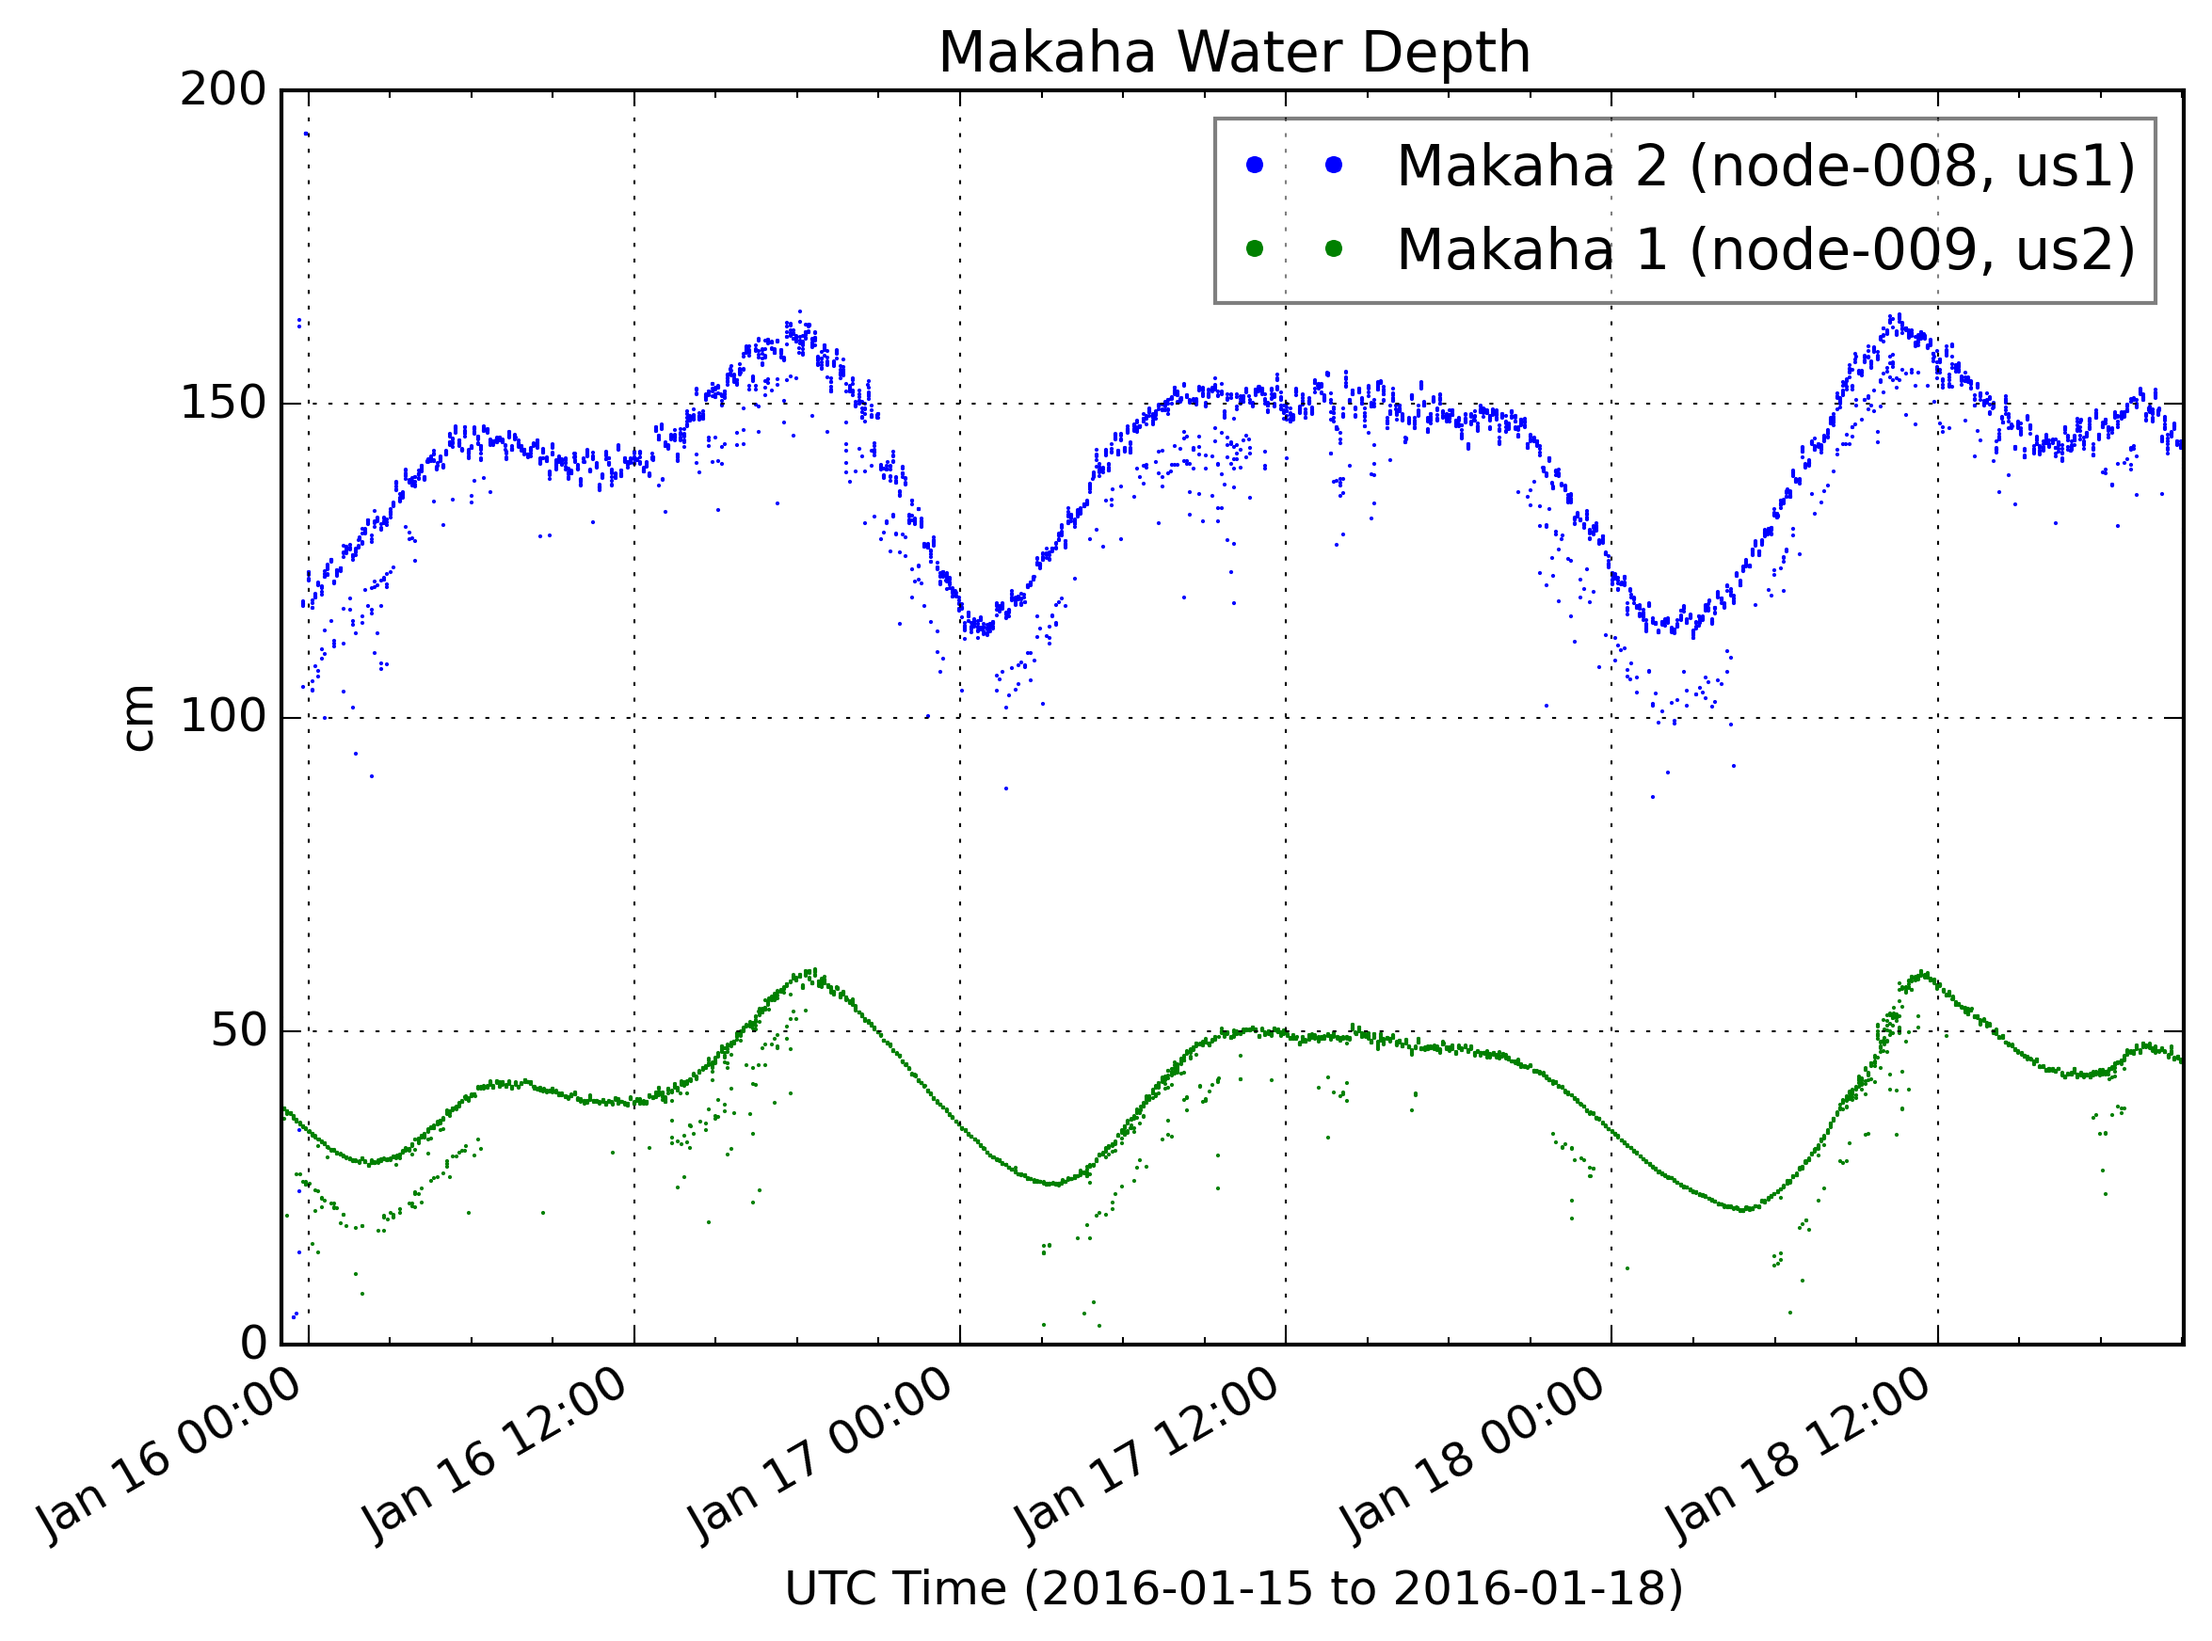
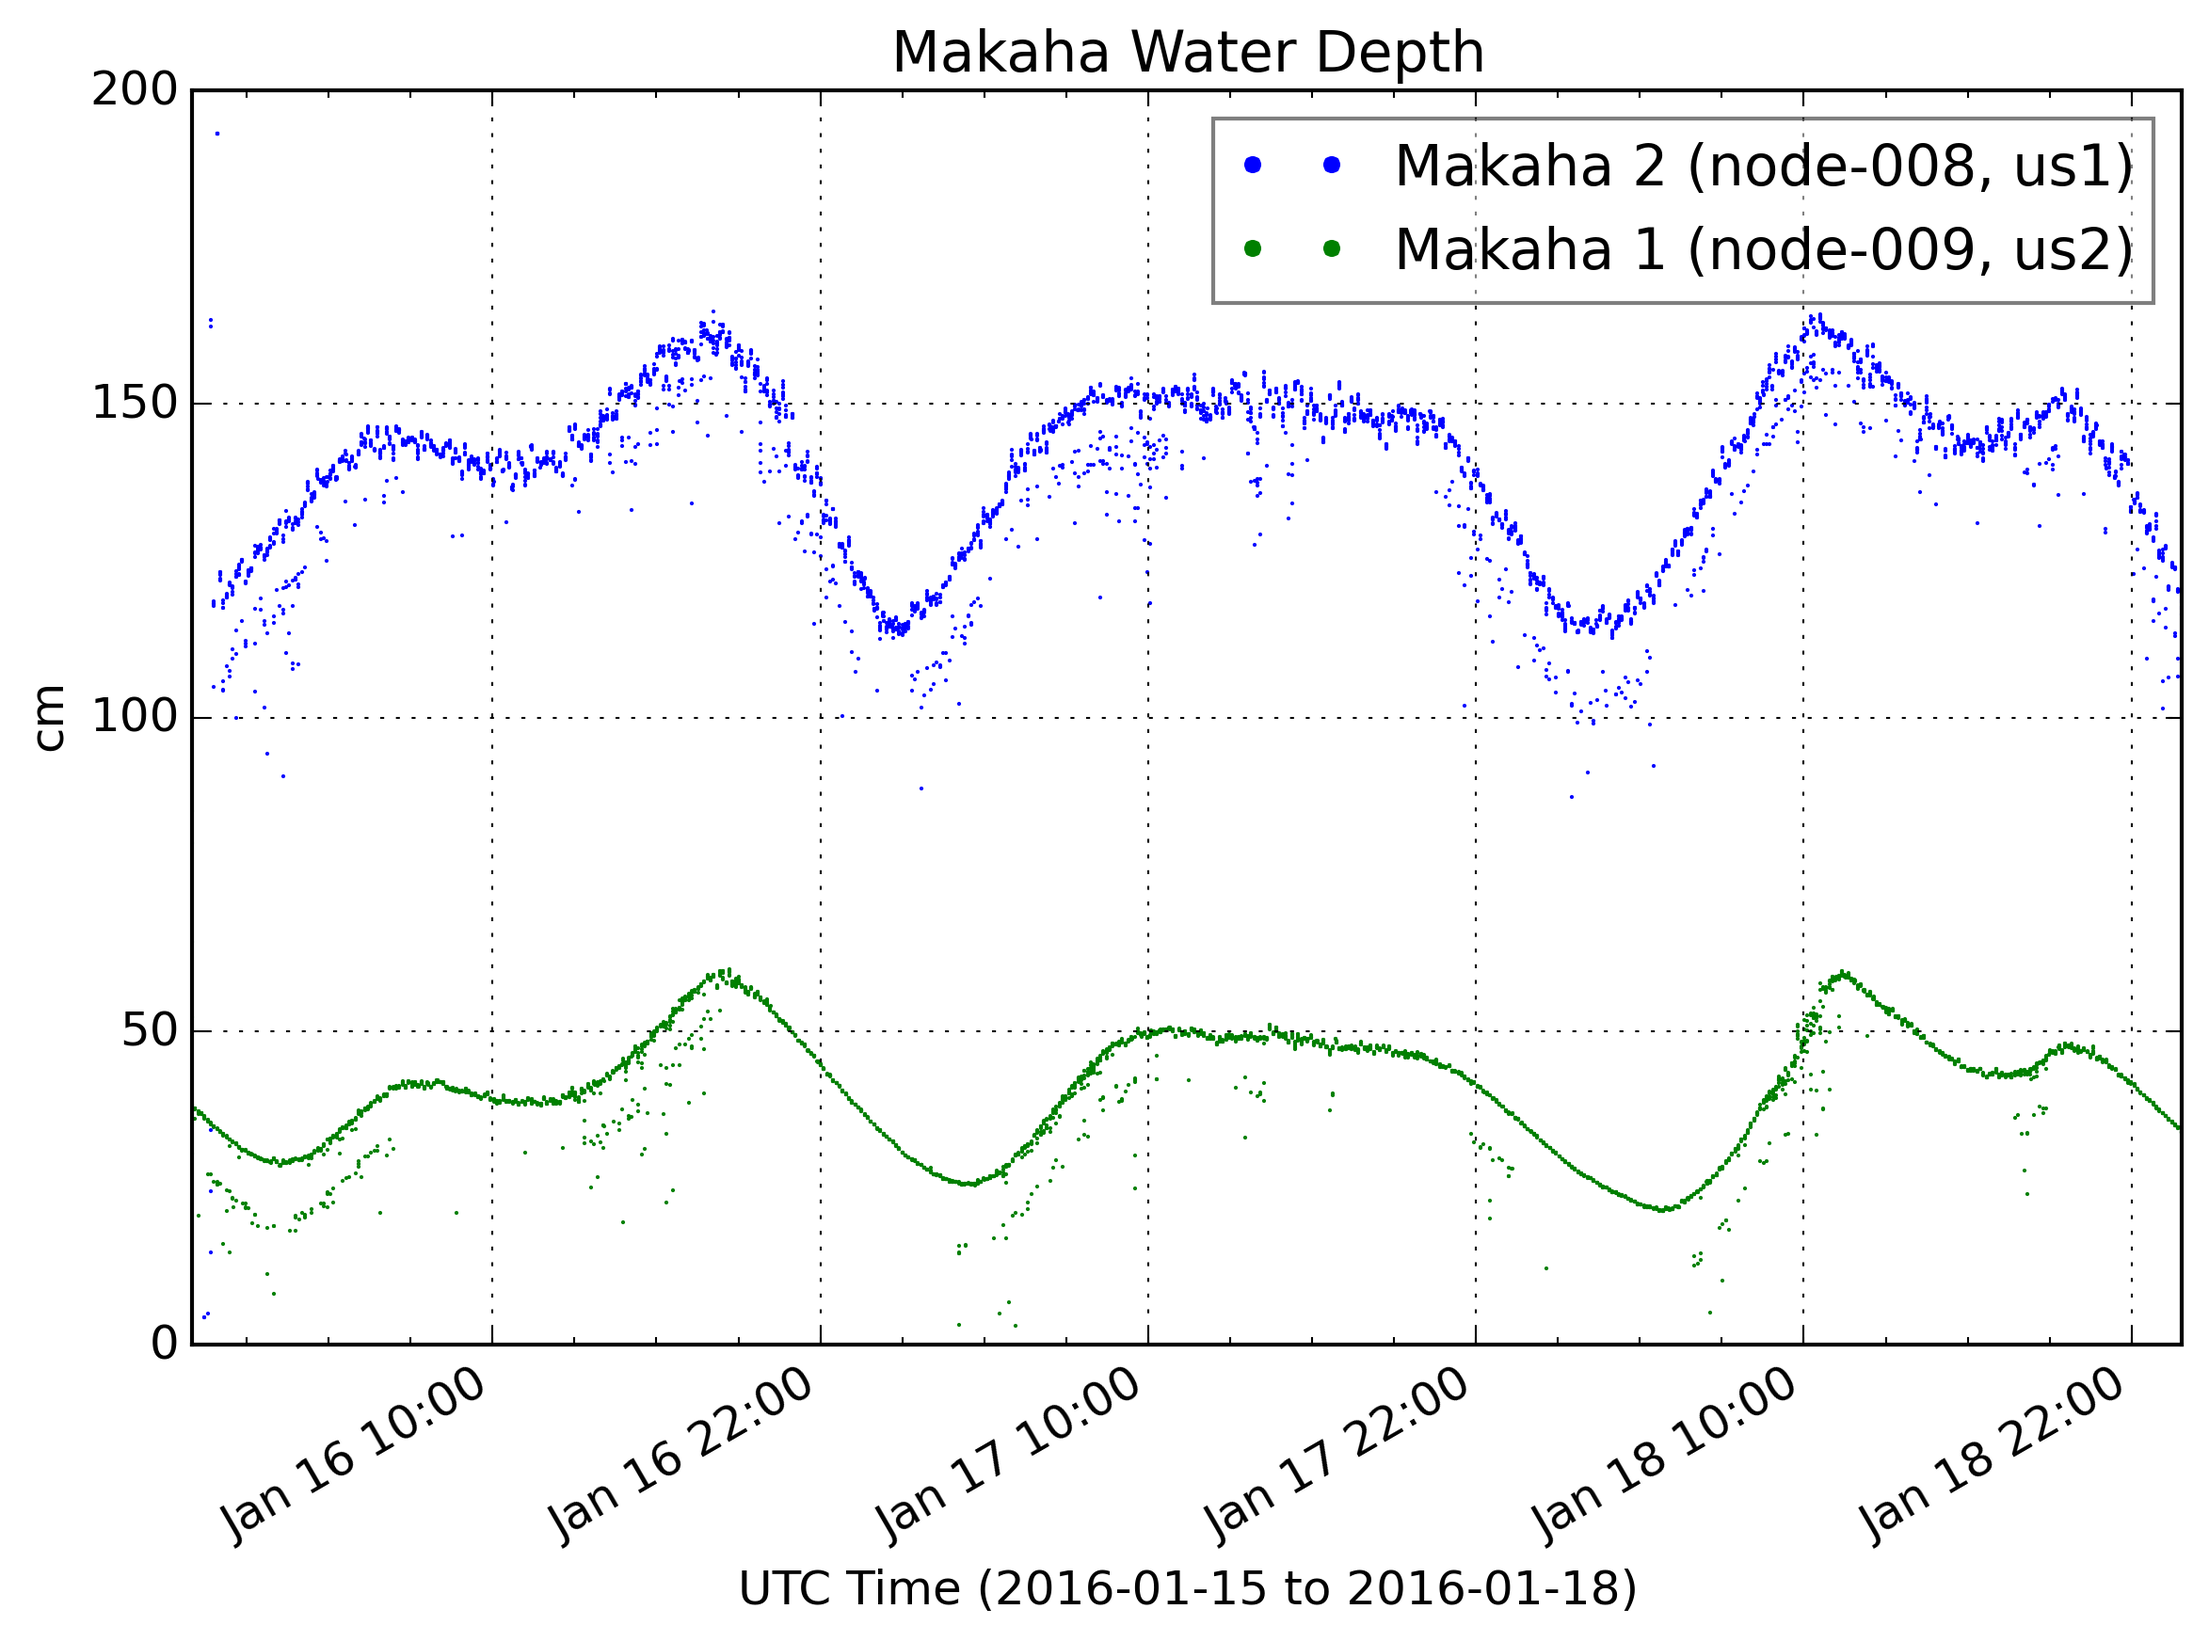
.

diff --git a/www/experimental3/create_plot.js b/www/experimental3/create_plot.js
@@ -4,7 +4,7 @@
 	var variable = $("#data-id").data("variable");;
 	// TODO
 	var end = Date.now()/1000.0;
-	var begin = end - 1*24*60*60;
+	var begin = end - 7*24*60*60;
 	
 	// query for sensor data
 	$.get("../qtr.py?site=" + site + "&node_id=" + node_id + "&var=" + variable + "&begin=" + begin + "&end=" + end,function(data) {

diff --git a/display/gen_plot.py b/display/gen_plot.py
@@ -5,15 +5,12 @@
 
 import matplotlib,numpy,traceback
 matplotlib.use('Agg')
-import sys,re,json,time
+import sys
 sys.path.append('..')
-from helper import get_dbfile,dt2ts
 import matplotlib.pyplot as plt
 from datetime import datetime,timedelta
 from matplotlib.dates import DateFormatter,HourLocator
 from config.config_support import *
-from os.path import exists,join
-from os import makedirs
 
 
 def PRINT(s):
@@ -138,6 +135,7 @@ def plot_multi_time_series(data,plotfilename,title='',xlabel='',ylabel=''):
             h.set_markersize(8)
     except:
         traceback.print_exc()
+        #pass
     
     plt.savefig(plotfilename,bbox_inches='tight',dpi=300)
     plt.cla()
@@ -152,124 +150,3 @@ def plot_time_series(x,y,plotfilename,title='',xlabel='',ylabel='',linelabel=Non
                            xlabel=xlabel,
                            ylabel=ylabel)
 
-
-if '__main__' == __name__:
-    import sys,traceback,sqlite3,re,importlib,argparse
-    sys.path.append('..')
-    from storage.storage import storage_read_only,auto_time_col
-    #from scipy.signal import medfilt
-
-    parser = argparse.ArgumentParser(formatter_class=argparse.RawTextHelpFormatter,description='')
-    parser.add_argument('--dbfile',type=str,default=None,metavar='dbfile',help='Path to the database file')
-    parser.add_argument('--site',type=str,default='poh',metavar='site',help='Name of the site. {poh,msb228,coconut}')
-    parser.add_argument('--plot_dir',type=str,default='./gen_plot_output',metavar='plot_dir',help='Output directory for the plots')
-    args = parser.parse_args()
-
-    site = args.site
-    PRINT('Site: {}'.format(site))
-
-    dbfile = args.dbfile
-    if dbfile is not None:
-        PRINT('db: {}'.format(dbfile))
-
-    # which database to take data from
-    #dbfile = args.dbfile
-    #if not exists(dbfile):
-    #    print('dbfile {} not found. Terminating.'.format(dbfile))
-    #    sys.exit()
-    #else:
-    #    PRINT('Plotting data from {}'.format(dbfile))
-
-    # where to put the generated plots
-    plot_dir = args.plot_dir
-    PRINT('Output directory: ' + plot_dir)
-
-    #tmp = store.get_list_of_tables()
-    #nodes = [t.replace('_','-') for t in tmp if re.match('^node.+',t)]
-    nodes = get_list_of_nodes(site)
-
-    if len(nodes) <= 0:
-        print('Nothing to plot. Terminating.')
-        sys.exit()
-
-    # list of nodes, per site
-    with open(join(plot_dir,'node_list.json'),'w') as f:
-        json.dump({'nodes':nodes},f,separators=(',',':'))
-
-    for node_id in nodes:
-        PRINT('- - - - -')
-        PRINT('Node: ' + node_id)
-
-        # if dbfile is not specified
-        if dbfile is None:
-            dbfile = get_dbfile(site,node_id)
-        store = storage_read_only(dbfile=dbfile)
-        
-        node = import_node_config(site,node_id)
-
-        tag_unit_map = get_unit_map(site,node_id)
-        tag_desc_map = get_description_map(site,node_id)
-        node_plot_dir = join(plot_dir,node_id)
-
-        # time_col
-        try:
-            time_col = auto_time_col(store,node_id)
-        except sqlite3.OperationalError:
-            PRINT('{} not in {}. Skipping this node'.format(node_id,dbfile))
-            continue
-            
-        variables = [c['dbtag'] for c in node.conf if c['plot']]
-        plotted = []
-        for var in variables:
-            timerange = timedelta(hours=node.plot_range)
-            cols = [time_col,var]
-
-            title = '{} ({} of {})'.format(tag_desc_map[var],var,node_id)
-            plotfilename = join(node_plot_dir,'{}.png'.format(var))
-
-            try:
-                tmp = store.read_past_time_period(node_id,time_col,cols,timerange)
-                x = tmp[time_col]
-                y = [l if l is not None else float('NaN') for l in tmp[var]]
-
-                #y = medfilt(y,5)
-
-                if not exists(node_plot_dir):
-                    makedirs(node_plot_dir)
-
-                PRINT('\t{}'.format(var))
-                plot_time_series(x,y,plotfilename,title,ylabel=tag_unit_map[var],linelabel=var)
-
-                # save settings of plot to JSON file
-                plot_config = {'time_begin':time.mktime(min(x).timetuple()),
-                               'time_end':time.mktime(max(x).timetuple()),
-                               'plot_generated_at':time.mktime(datetime.utcnow().timetuple()),
-                               'data_point_count':len(y),
-                               time_col:[dt2ts(t) for t in x],
-                               var:y,
-                               'unit':tag_unit_map[var],
-                               'description':tag_desc_map[var]}
-
-                # website helper (data attributes, per plot/var)
-                with open(join(node_plot_dir,var + '.json'),'w') as f:
-                    # json.dump vs. json.dumps...
-                    json.dump(plot_config,f,separators=(',',':'))
-
-                plotted.append(var)
-
-            except (TypeError,sqlite3.OperationalError,ValueError) as e:
-                # TypeError: ... I don't remember.
-                # sqlite3.OperationalError: db is empty
-                # ValueError: db has the variable, but all NaN
-                PRINT('\tNo data for {} of {} in the selected range'.\
-                      format(var,node_id))
-                traceback.print_exc()
-            except:
-                traceback.print_exc()
-
-        # website helper (list of variable, per node)
-        if exists(node_plot_dir) and len(plotted) > 0:
-            with open(join(node_plot_dir,'var_list.json'),'w') as f:
-                #tmp = [v + '.png' for v in plotted]
-                #json.dump({'variables':tmp},f,separators=(',',':'))
-                json.dump({'variables':plotted},f,separators=(',',':'))

diff --git a/display/t0.py b/display/t0.py
@@ -1,0 +1,135 @@
+# generate plots for debug webpage
+#
+# Stanley Lio, hlio@soest.hawaii.edu
+# January 2016
+import sys,traceback,sqlite3,re,importlib,argparse,json,time
+sys.path.append('..')
+from config.config_support import *
+from storage.storage import storage_read_only,auto_time_col
+from gen_plot import plot_multi_time_series,plot_time_series
+from helper import get_dbfile,dt2ts
+from datetime import datetime,timedelta
+from os.path import exists,join
+from os import makedirs
+#from scipy.signal import medfilt
+
+
+def PRINT(s):
+    print(s)
+    #pass
+
+
+parser = argparse.ArgumentParser(formatter_class=argparse.RawTextHelpFormatter,description='')
+parser.add_argument('--dbfile',type=str,default=None,metavar='dbfile',help='Path to the database file')
+parser.add_argument('--site',type=str,default='poh',metavar='site',help='Name of the site. {poh,msb228,coconut}')
+parser.add_argument('--plot_dir',type=str,default='./gen_plot_output',metavar='plot_dir',help='Output directory for the plots')
+args = parser.parse_args()
+
+site = args.site
+PRINT('Site: {}'.format(site))
+
+dbfile = args.dbfile
+if dbfile is not None:
+    PRINT('db: {}'.format(dbfile))
+
+# which database to take data from
+#dbfile = args.dbfile
+#if not exists(dbfile):
+#    print('dbfile {} not found. Terminating.'.format(dbfile))
+#    sys.exit()
+#else:
+#    PRINT('Plotting data from {}'.format(dbfile))
+
+# where to put the generated plots
+plot_dir = args.plot_dir
+PRINT('Output directory: ' + plot_dir)
+
+#tmp = store.get_list_of_tables()
+#nodes = [t.replace('_','-') for t in tmp if re.match('^node.+',t)]
+nodes = get_list_of_nodes(site)
+
+if len(nodes) <= 0:
+    print('Nothing to plot. Terminating.')
+    sys.exit()
+
+# list of nodes, per site
+with open(join(plot_dir,'node_list.json'),'w') as f:
+    json.dump({'nodes':nodes},f,separators=(',',':'))
+
+for node_id in nodes:
+    PRINT('- - - - -')
+    PRINT('Node: ' + node_id)
+
+    # if dbfile is not specified
+    if dbfile is None:
+        dbfile = get_dbfile(site,node_id)
+    store = storage_read_only(dbfile=dbfile)
+    
+    node = import_node_config(site,node_id)
+
+    tag_unit_map = get_unit_map(site,node_id)
+    tag_desc_map = get_description_map(site,node_id)
+    node_plot_dir = join(plot_dir,node_id)
+
+    # time_col
+    try:
+        time_col = auto_time_col(store,node_id)
+    except sqlite3.OperationalError:
+        PRINT('{} not in {}. Skipping this node'.format(node_id,dbfile))
+        continue
+        
+    variables = [c['dbtag'] for c in node.conf if c['plot']]
+    plotted = []
+    for var in variables:
+        timerange = timedelta(hours=node.plot_range)
+        cols = [time_col,var]
+
+        title = '{} ({} of {})'.format(tag_desc_map[var],var,node_id)
+        plotfilename = join(node_plot_dir,'{}.png'.format(var))
+
+        try:
+            tmp = store.read_past_time_period(node_id,time_col,cols,timerange)
+            x = tmp[time_col]
+            y = [l if l is not None else float('NaN') for l in tmp[var]]
+
+            #y = medfilt(y,5)
+
+            if not exists(node_plot_dir):
+                makedirs(node_plot_dir)
+
+            PRINT('\t{}'.format(var))
+            plot_time_series(x,y,plotfilename,title,ylabel=tag_unit_map[var],linelabel=var)
+
+            # save settings of plot to JSON file
+            plot_config = {'time_begin':time.mktime(min(x).timetuple()),
+                           'time_end':time.mktime(max(x).timetuple()),
+                           'plot_generated_at':time.mktime(datetime.utcnow().timetuple()),
+                           'data_point_count':len(y),
+                           time_col:[dt2ts(t) for t in x],
+                           var:y,
+                           'unit':tag_unit_map[var],
+                           'description':tag_desc_map[var]}
+
+            # website helper (data attributes, per plot/var)
+            with open(join(node_plot_dir,var + '.json'),'w') as f:
+                # json.dump vs. json.dumps...
+                json.dump(plot_config,f,separators=(',',':'))
+
+            plotted.append(var)
+
+        except (TypeError,sqlite3.OperationalError,ValueError) as e:
+            # TypeError: ... I don't remember.
+            # sqlite3.OperationalError: db is empty
+            # ValueError: db has the variable, but all NaN
+            PRINT('\tNo data for {} of {} in the selected range'.\
+                  format(var,node_id))
+            traceback.print_exc()
+        except:
+            traceback.print_exc()
+
+    # website helper (list of variable, per node)
+    if exists(node_plot_dir) and len(plotted) > 0:
+        with open(join(node_plot_dir,'var_list.json'),'w') as f:
+            #tmp = [v + '.png' for v in plotted]
+            #json.dump({'variables':tmp},f,separators=(',',':'))
+            json.dump({'variables':plotted},f,separators=(',',':'))

diff --git a/display/t1.py b/display/t1.py
@@ -8,6 +8,7 @@ from datetime import timedelta
 from storage.storage import storage_read_only
 from gen_plot import plot_multi_time_series
 
+
 def haha(c):
     time_col = c['time_col']
     tag = c['tag']
@@ -43,7 +44,7 @@ def haha(c):
 
 
 #dbfile = '../storage/sensor_data.db'
-dbfile = '../storage/bounded/sensor_data.db'
+dbfile = '../storage/bounded/poh/sensor_data.db'
 store = storage_read_only(dbfile=dbfile)
 
 for node in store.get_list_of_tables():

diff --git a/display/proc.py b/display/proc.py
@@ -64,6 +64,7 @@ for node_id in nodes:
     c = conn.cursor()
     for tag in cols:
         print '\t',tag
+
         try:
             c.execute('UPDATE {node} SET {tag}=? WHERE {tag}<?'.format(node=node_id.replace('-','_'),tag=tag),(None,mins[tag],))
         except KeyError:

diff --git a/config/poh/node_007.py b/config/poh/node_007.py
@@ -56,8 +56,8 @@ conf = [
         'unit':'kPa',
         'description':'Barometric Pressure (BME280)',
         'plot':True,
-        'min':80e3,
-        'max':110e3,
+        'min':80,
+        'max':120,
     },
     {
         'dbtag':'T_280',
